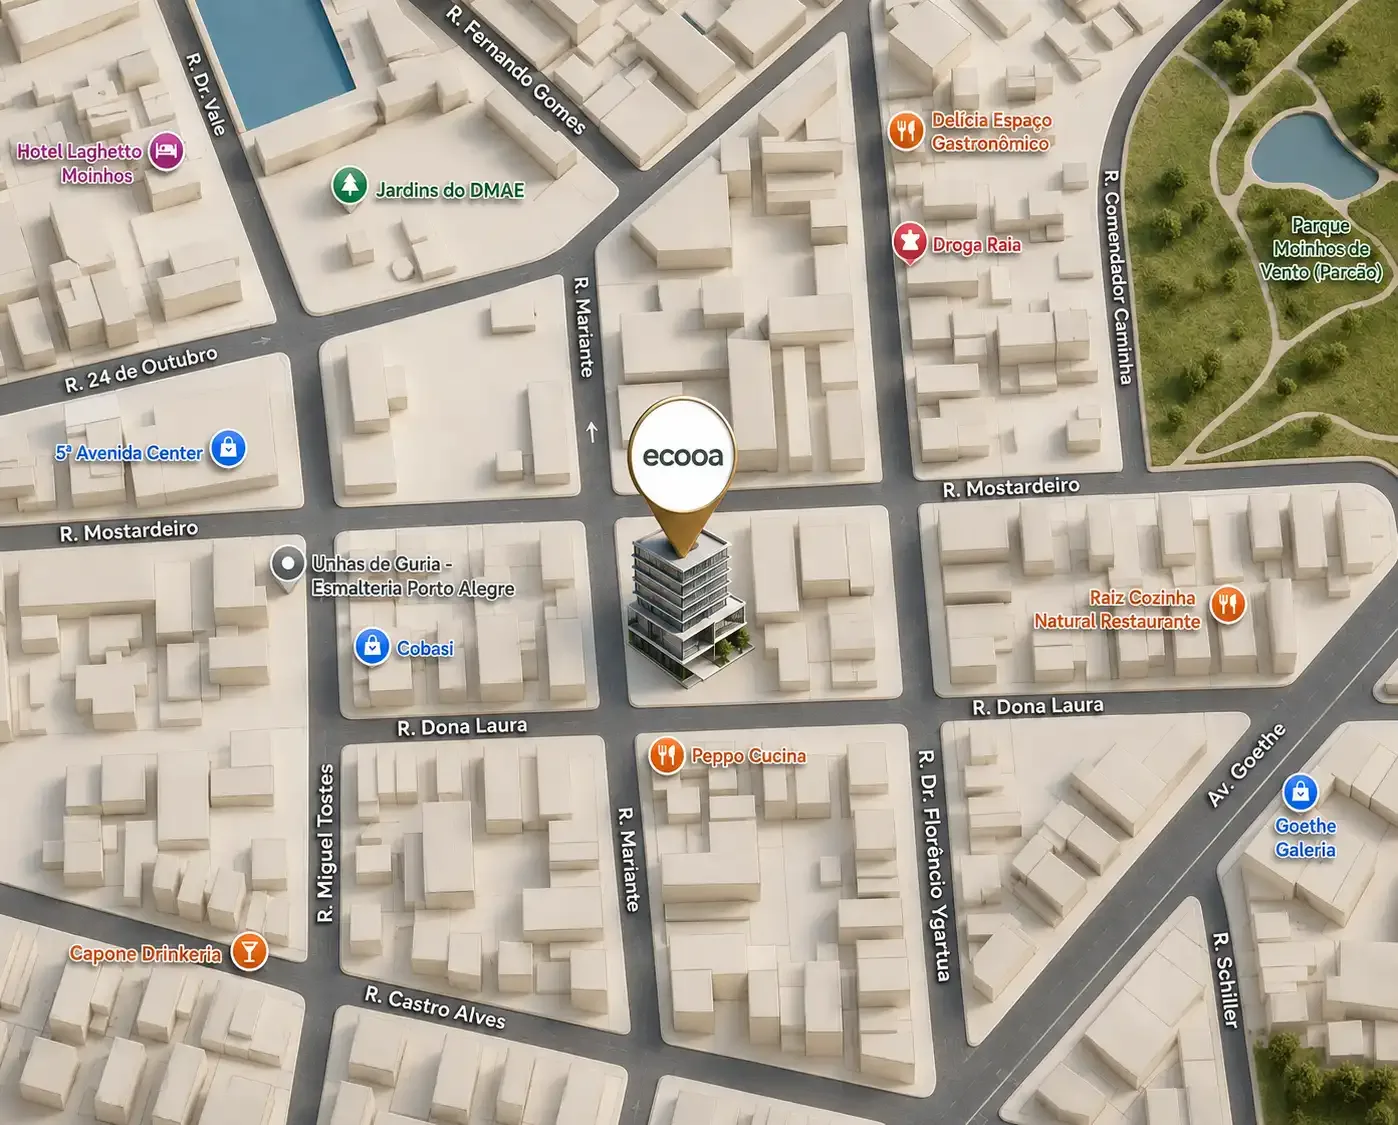
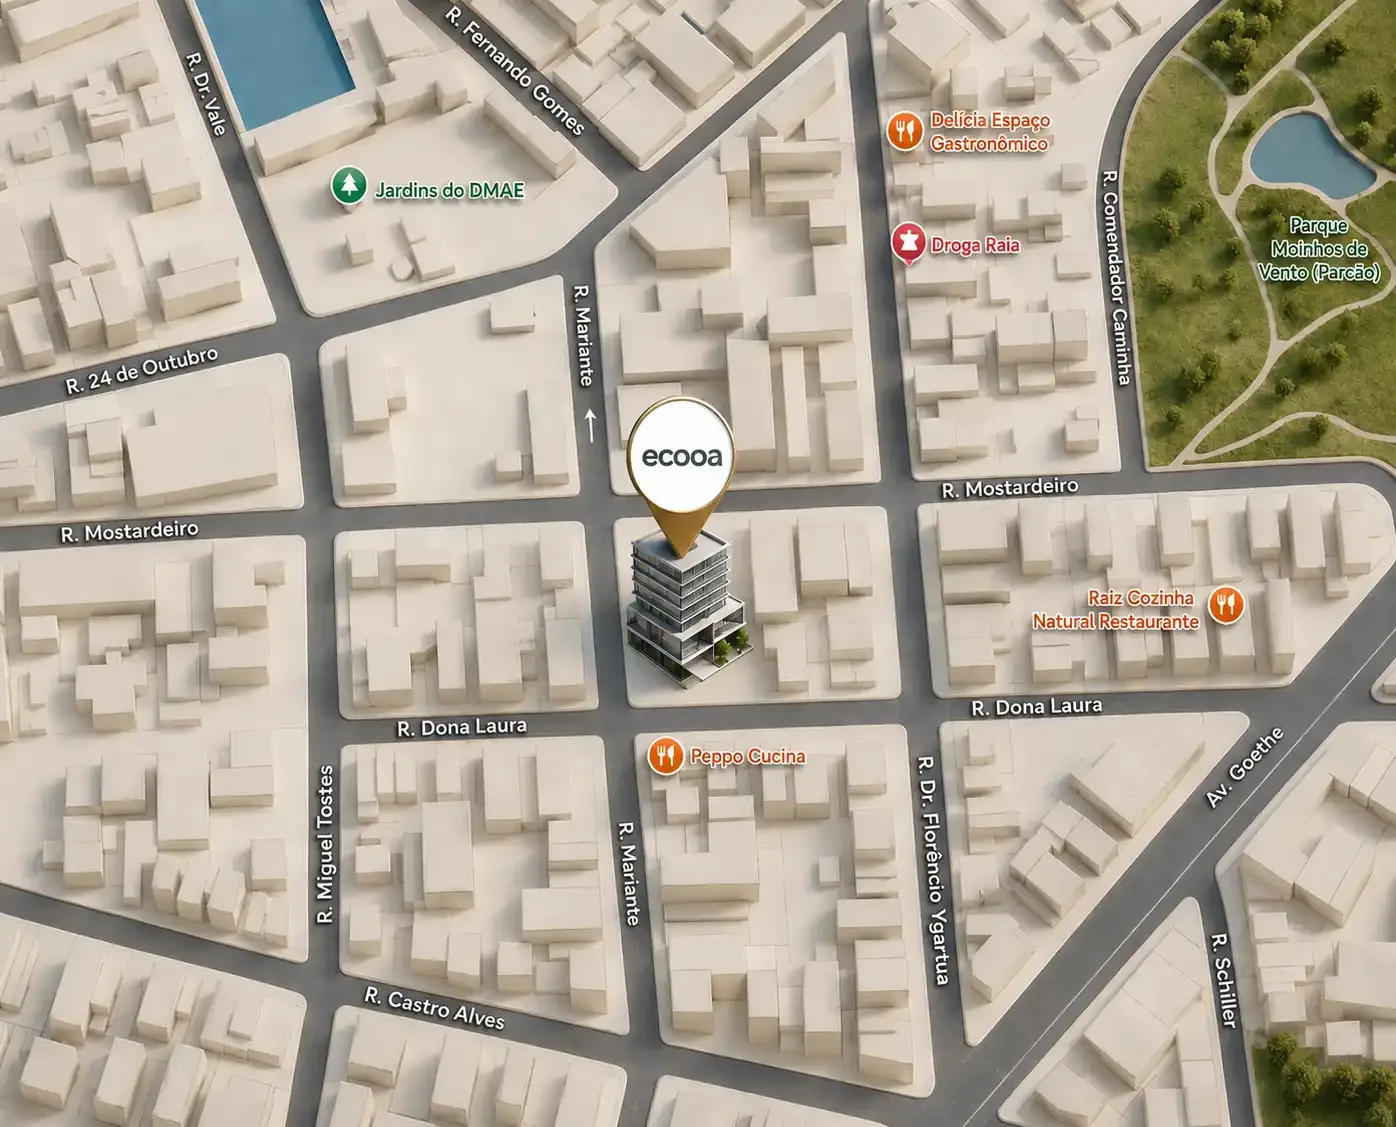
feat(localizacao): versao final do mapa 3D enviada pelo dono
Substitui a arte do mapa pela versao limpa que o dono escolheu, sem os
pontos comerciais do lado esquerdo: ficam o predio da ecooa com o pino, as
ruas nomeadas, o Parcao e as referencias proximas. Dimensoes reais
atualizadas na tag (1396x1127, 131 KB). O cartao segue clicavel para a
ficha da ecooa no Google Maps, verificado em navegador.

diff --git a/deploy/localizacao.html b/deploy/localizacao.html
@@ -471,7 +471,7 @@
 
       <div data-dc-tpl="94" style="flex: 1.2 1 380px; min-width: 0px;">
         <a data-dc-tpl="95" href="https://www.google.com/maps/search/?api=1&amp;query=ecooa%20Rua%20Mariante%20180%20Moinhos%20de%20Vento%20Porto%20Alegre" target="_blank" rel="noopener noreferrer" aria-label="Abrir a localização da ecooa no Google Maps" style="position: relative; display: block; overflow: hidden; border-radius: 14px; background: var(--elevado); box-shadow: var(--relevo);">
-          <img data-dc-tpl="96" width="1398" height="1125" src="assets/mapa-ecooa.webp" alt="Mapa 3D de Moinhos de Vento com a ecooa marcada na Rua Mariante, 180, entre a Rua Mostardeiro e a Rua Dona Laura, perto do Parcão" loading="lazy" style="display: block; width: 100%; height: auto; background: var(--nevoa);">
+          <img data-dc-tpl="96" width="1396" height="1127" src="assets/mapa-ecooa.webp" alt="Mapa 3D de Moinhos de Vento com a ecooa marcada na Rua Mariante, 180, entre a Rua Mostardeiro e a Rua Dona Laura, perto do Parcão" loading="lazy" style="display: block; width: 100%; height: auto; background: var(--nevoa);">
           <span data-dc-tpl="97" style="position: absolute; top: 16px; right: 16px; display: inline-flex; align-items: center; gap: 8px; min-height: 42px; padding: 0px 20px; border-radius: 999px; background: rgba(253, 253, 252, 0.92); color: var(--grafite); font-size: 10.5px; font-weight: 600; letter-spacing: 0.16em; text-transform: uppercase; box-shadow: rgba(70, 68, 63, 0.22) 0px 8px 22px; backdrop-filter: blur(4px);" data-miudo="">abrir no maps</span>
           <span data-dc-tpl="98" style="position: absolute; left: 16px; bottom: 16px; display: inline-flex; align-items: center; gap: 9px; min-height: 40px; padding: 0px 18px; border-radius: 999px; background: rgba(43, 41, 38, 0.62); color: rgb(240, 238, 233); font-size: 12.5px; letter-spacing: 0.03em; backdrop-filter: blur(4px);"><span data-dc-tpl="99" aria-hidden="true" style="width: 7px; height: 7px; border-radius: 999px; background: rgb(240, 238, 233); display: inline-block;"></span>Rua Mariante, 180 · Moinhos de Vento</span>
         </a>

diff --git a/src-site-3/localizacao.html b/src-site-3/localizacao.html
@@ -165,7 +165,7 @@
 
       <div style="flex:1.2 1 380px; min-width:0;">
         <a href="https://www.google.com/maps/search/?api=1&query=ecooa%20Rua%20Mariante%20180%20Moinhos%20de%20Vento%20Porto%20Alegre" target="_blank" rel="noopener noreferrer" aria-label="Abrir a localização da ecooa no Google Maps" style="position:relative; display:block; overflow:hidden; border-radius:14px; background:var(--elevado); box-shadow:var(--relevo);">
-          <img width="1398" height="1125" src="assets/mapa-ecooa.webp" alt="Mapa 3D de Moinhos de Vento com a ecooa marcada na Rua Mariante, 180, entre a Rua Mostardeiro e a Rua Dona Laura, perto do Parcão" style="display:block; width:100%; height:auto; background:var(--nevoa);" loading="lazy">
+          <img width="1396" height="1127" src="assets/mapa-ecooa.webp" alt="Mapa 3D de Moinhos de Vento com a ecooa marcada na Rua Mariante, 180, entre a Rua Mostardeiro e a Rua Dona Laura, perto do Parcão" style="display:block; width:100%; height:auto; background:var(--nevoa);" loading="lazy">
           <span style="position:absolute; top:16px; right:16px; display:inline-flex; align-items:center; gap:8px; min-height:42px; padding:0 20px; border-radius:999px; background:rgba(253,253,252,.92); color:var(--grafite); font-size:10.5px; font-weight:600; letter-spacing:.16em; text-transform:uppercase; box-shadow:0 8px 22px rgba(70,68,63,.22); backdrop-filter:blur(4px);">abrir no maps</span>
           <span style="position:absolute; left:16px; bottom:16px; display:inline-flex; align-items:center; gap:9px; min-height:40px; padding:0 18px; border-radius:999px; background:rgba(43,41,38,.62); color:#F0EEE9; font-size:12.5px; letter-spacing:.03em; backdrop-filter:blur(4px);"><span aria-hidden="true" style="width:7px; height:7px; border-radius:999px; background:#F0EEE9; display:inline-block;"></span>Rua Mariante, 180 · Moinhos de Vento</span>
         </a>
